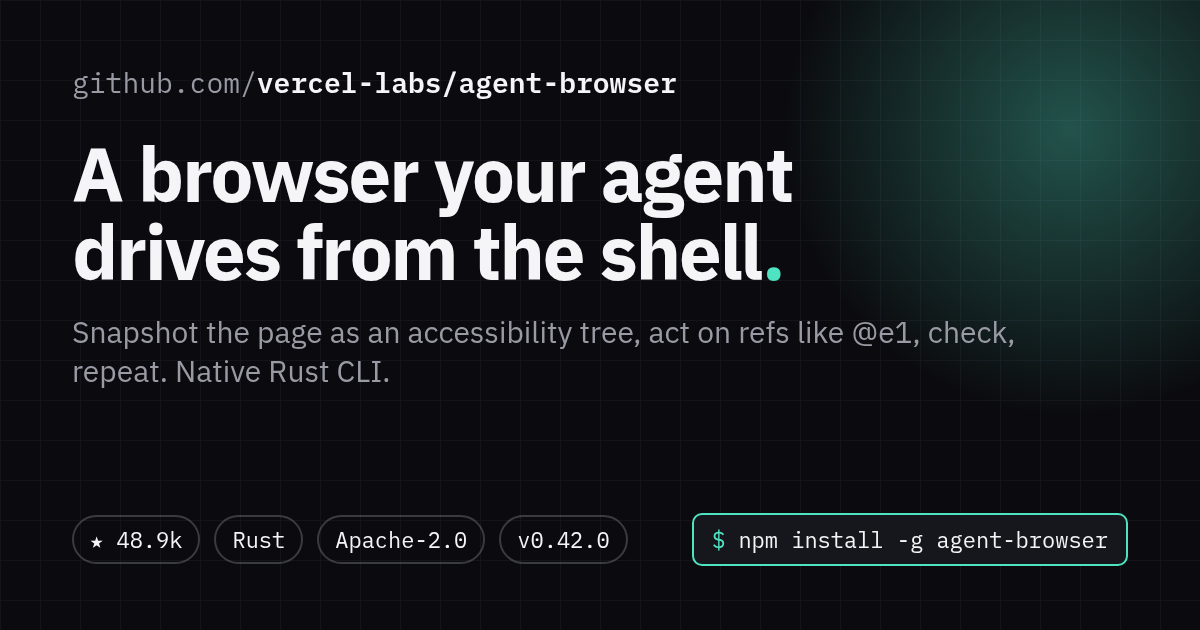
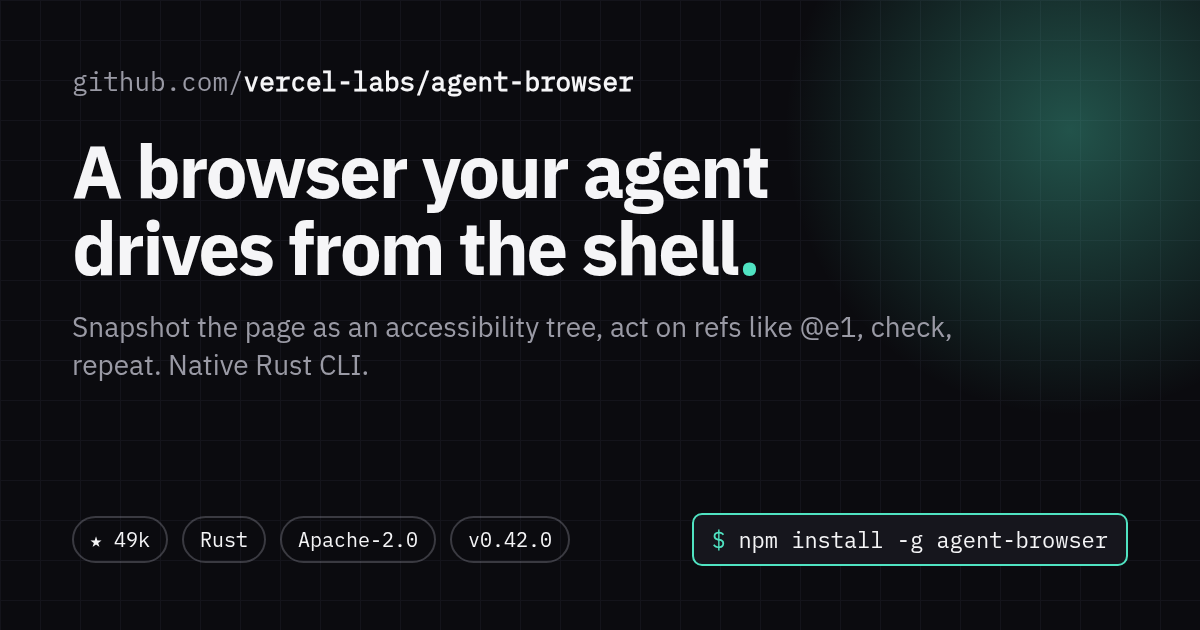
Refresh examples, add README demos, and drop stale wording.
Example facts are re-fetched as of Nov 10, 2026, the agent-browser
thread no longer says "last night," and the README now shows a demo
image or GIF for each skill, including the new styles.

diff --git a/skills/og-image/examples/agent-browser/og.html b/skills/og-image/examples/agent-browser/og.html
@@ -1,23 +1,27 @@
 <!doctype html><html><head><meta charset="utf-8"><style>
+@font-face{font-family:'IBM Plex Sans';src:url('../../fonts/IBMPlexSans-Regular.woff2') format('woff2');font-weight:400;font-style:normal;font-display:block}
+@font-face{font-family:'IBM Plex Sans';src:url('../../fonts/IBMPlexSans-SemiBold.woff2') format('woff2');font-weight:600;font-style:normal;font-display:block}
+@font-face{font-family:'IBM Plex Sans';src:url('../../fonts/IBMPlexSans-Bold.woff2') format('woff2');font-weight:700;font-style:normal;font-display:block}
+@font-face{font-family:'IBM Plex Mono';src:url('../../fonts/IBMPlexMono-Regular.woff2') format('woff2');font-weight:400;font-style:normal;font-display:block}
 *{margin:0;padding:0;box-sizing:border-box}
 html,body{width:1200px;height:630px;overflow:hidden}
-body{background:#0b0b0f;color:#f5f5f7;font-family:'IBM Plex Sans','Inter','Helvetica Neue',Arial,sans-serif;position:relative}
+body{background:#0b0b0f;color:#f5f5f7;font-family:'IBM Plex Sans','Helvetica Neue',Arial,sans-serif;position:relative;-webkit-font-smoothing:antialiased}
 .grid{position:absolute;inset:0;background-image:linear-gradient(#16161d 1px,transparent 1px),linear-gradient(90deg,#16161d 1px,transparent 1px);background-size:40px 40px;opacity:.9}
 .glow{position:absolute;right:-180px;top:-180px;width:620px;height:620px;border-radius:50%;background:radial-gradient(circle,#50e3c255,transparent 65%)}
 .wrap{position:absolute;inset:0;padding:64px 72px;display:flex;flex-direction:column}
-.repo{font-family:'IBM Plex Mono','DejaVu Sans Mono',monospace;font-size:28px;color:#9a9aa5}
+.repo{font-family:'IBM Plex Mono','DejaVu Sans Mono',monospace;font-size:26px;color:#9a9aa5}
 .repo b{color:#f5f5f7;font-weight:600}
-h1{font-size:76px;line-height:1.02;font-weight:700;letter-spacing:-2px;margin-top:34px;max-width:1000px;text-wrap:balance}
+h1{font-size:74px;line-height:1.04;font-weight:700;letter-spacing:-0.03em;margin-top:34px;max-width:1000px;text-wrap:balance}
 h1 span{color:#50e3c2}
-p{font-size:30px;line-height:1.3;color:#9a9aa5;margin-top:22px;max-width:960px}
+p{font-size:28px;line-height:1.35;color:#9a9aa5;margin-top:22px;max-width:960px}
 .bottom{margin-top:auto;display:flex;align-items:center;gap:14px}
-.chip{font-family:'IBM Plex Mono',monospace;font-size:22px;padding:8px 16px;border:2px solid #9a9aa555;border-radius:999px;color:#f5f5f7}
-.cmd{margin-left:auto;font-family:'IBM Plex Mono',monospace;font-size:22px;background:#16161d;border:2px solid #50e3c2;border-radius:10px;padding:10px 18px;color:#f5f5f7;max-width:436px;white-space:nowrap;overflow:hidden;text-overflow:ellipsis}
+.chip{font-family:'IBM Plex Mono',monospace;font-size:20px;padding:8px 16px;border:2px solid #9a9aa555;border-radius:999px;color:#f5f5f7}
+.cmd{margin-left:auto;font-family:'IBM Plex Mono',monospace;font-size:22px;background:#16161d;border:2px solid #50e3c2;border-radius:10px;padding:10px 18px;color:#f5f5f7;max-width:462px;white-space:nowrap;overflow:hidden;text-overflow:ellipsis}
 .cmd i{color:#50e3c2;font-style:normal}
 </style></head><body><div class="grid"></div><div class="glow"></div><div class="wrap">
 <div class="repo">github.com/<b>vercel-labs/agent-browser</b></div>
 <h1>A browser your agent drives from the shell<span>.</span></h1>
 <p>Snapshot the page as an accessibility tree, act on refs like @e1, check, repeat. Native Rust CLI.</p>
-<div class="bottom"><div class="chip">★ 48.9k</div><div class="chip">Rust</div><div class="chip">Apache-2.0</div><div class="chip">v0.42.0</div>
+<div class="bottom"><div class="chip">★ 49k</div><div class="chip">Rust</div><div class="chip">Apache-2.0</div><div class="chip">v0.42.0</div>
 <div class="cmd"><i>$</i> npm install -g agent-browser</div></div>
 </div></body></html>

diff --git a/skills/og-image/examples/anthropics-skills/og.html b/skills/og-image/examples/anthropics-skills/og.html
@@ -1,23 +1,27 @@
 <!doctype html><html><head><meta charset="utf-8"><style>
+@font-face{font-family:'IBM Plex Sans';src:url('../../fonts/IBMPlexSans-Regular.woff2') format('woff2');font-weight:400;font-style:normal;font-display:block}
+@font-face{font-family:'IBM Plex Sans';src:url('../../fonts/IBMPlexSans-SemiBold.woff2') format('woff2');font-weight:600;font-style:normal;font-display:block}
+@font-face{font-family:'IBM Plex Sans';src:url('../../fonts/IBMPlexSans-Bold.woff2') format('woff2');font-weight:700;font-style:normal;font-display:block}
+@font-face{font-family:'IBM Plex Mono';src:url('../../fonts/IBMPlexMono-Regular.woff2') format('woff2');font-weight:400;font-style:normal;font-display:block}
 *{margin:0;padding:0;box-sizing:border-box}
 html,body{width:1200px;height:630px;overflow:hidden}
-body{background:#0b0b0f;color:#f5f5f7;font-family:'IBM Plex Sans','Inter','Helvetica Neue',Arial,sans-serif;position:relative}
+body{background:#0b0b0f;color:#f5f5f7;font-family:'IBM Plex Sans','Helvetica Neue',Arial,sans-serif;position:relative;-webkit-font-smoothing:antialiased}
 .grid{position:absolute;inset:0;background-image:linear-gradient(#16161d 1px,transparent 1px),linear-gradient(90deg,#16161d 1px,transparent 1px);background-size:40px 40px;opacity:.9}
 .glow{position:absolute;right:-180px;top:-180px;width:620px;height:620px;border-radius:50%;background:radial-gradient(circle,#d9775755,transparent 65%)}
 .wrap{position:absolute;inset:0;padding:64px 72px;display:flex;flex-direction:column}
-.repo{font-family:'IBM Plex Mono','DejaVu Sans Mono',monospace;font-size:28px;color:#9a9aa5}
+.repo{font-family:'IBM Plex Mono','DejaVu Sans Mono',monospace;font-size:26px;color:#9a9aa5}
 .repo b{color:#f5f5f7;font-weight:600}
-h1{font-size:76px;line-height:1.02;font-weight:700;letter-spacing:-2px;margin-top:34px;max-width:1000px;text-wrap:balance}
+h1{font-size:74px;line-height:1.04;font-weight:700;letter-spacing:-0.03em;margin-top:34px;max-width:1000px;text-wrap:balance}
 h1 span{color:#d97757}
-p{font-size:30px;line-height:1.3;color:#9a9aa5;margin-top:22px;max-width:960px}
+p{font-size:28px;line-height:1.35;color:#9a9aa5;margin-top:22px;max-width:960px}
 .bottom{margin-top:auto;display:flex;align-items:center;gap:14px}
-.chip{font-family:'IBM Plex Mono',monospace;font-size:22px;padding:8px 16px;border:2px solid #9a9aa555;border-radius:999px;color:#f5f5f7}
-.cmd{margin-left:auto;font-family:'IBM Plex Mono',monospace;font-size:22px;background:#16161d;border:2px solid #d97757;border-radius:10px;padding:10px 18px;color:#f5f5f7;max-width:746px;white-space:nowrap;overflow:hidden;text-overflow:ellipsis}
+.chip{font-family:'IBM Plex Mono',monospace;font-size:20px;padding:8px 16px;border:2px solid #9a9aa555;border-radius:999px;color:#f5f5f7}
+.cmd{margin-left:auto;font-family:'IBM Plex Mono',monospace;font-size:22px;background:#16161d;border:2px solid #d97757;border-radius:10px;padding:10px 18px;color:#f5f5f7;max-width:772px;white-space:nowrap;overflow:hidden;text-overflow:ellipsis}
 .cmd i{color:#d97757;font-style:normal}
 </style></head><body><div class="grid"></div><div class="glow"></div><div class="wrap">
 <div class="repo">github.com/<b>anthropics/skills</b></div>
 <h1>Folders that teach Claude repeatable tasks<span>.</span></h1>
 <p>Instructions, scripts and resources Claude loads on demand: docx, pdf, pptx, MCP builders and more.</p>
-<div class="bottom"><div class="chip">★ 191.9k</div><div class="chip">Python</div>
+<div class="bottom"><div class="chip">★ 192k</div><div class="chip">Python</div>
 <div class="cmd"><i>></i> /plugin marketplace add anthropics/skills</div></div>
 </div></body></html>

diff --git a/skills/x-launch-thread/examples/anthropics-skills/thread.html b/skills/x-launch-thread/examples/anthropics-skills/thread.html
@@ -1,0 +1,37 @@
+<!doctype html><html><head><meta charset="utf-8"><style>
+@font-face{font-family:'IBM Plex Sans';src:url('../../fonts/IBMPlexSans-Regular.woff2') format('woff2');font-weight:400;font-style:normal;font-display:block}
+@font-face{font-family:'IBM Plex Sans';src:url('../../fonts/IBMPlexSans-SemiBold.woff2') format('woff2');font-weight:600;font-style:normal;font-display:block}
+@font-face{font-family:'IBM Plex Sans';src:url('../../fonts/IBMPlexSans-Bold.woff2') format('woff2');font-weight:700;font-style:normal;font-display:block}
+@font-face{font-family:'IBM Plex Mono';src:url('../../fonts/IBMPlexMono-Regular.woff2') format('woff2');font-weight:400;font-style:normal;font-display:block}
+*{margin:0;padding:0;box-sizing:border-box}
+html,body{width:1200px;background:#0b0b0f;color:#f5f5f7;font-family:'IBM Plex Sans','Helvetica Neue',Arial,sans-serif;-webkit-font-smoothing:antialiased}
+body{padding:48px 56px 56px}
+.kicker{font-family:'IBM Plex Mono',monospace;font-size:16px;letter-spacing:.12em;text-transform:uppercase;color:#9a9aa5}
+h1{font-size:36px;font-weight:700;letter-spacing:-0.03em;margin:10px 0 28px}
+.card{background:#16161d;border:1px solid #2a2a33;border-radius:16px;padding:22px 26px;margin:0 0 14px}
+.card.reply{border-color:#3dff8a55}
+.meta{display:flex;justify-content:space-between;align-items:center;margin-bottom:10px;font-family:'IBM Plex Mono',monospace;font-size:16px;color:#9a9aa5}
+.num{color:#f5f5f7}
+.count.ok{color:#3dff8a}
+.count.over{color:#ff4d4d}
+.body{font-size:24px;line-height:1.45;white-space:normal;word-wrap:break-word}
+</style></head><body>
+<div class="kicker">draft · not posted</div>
+<h1>anthropics/skills</h1>
+<div class="card ">
+  <div class="meta"><span class="num">1/5</span><span class="count ok">231/280</span></div>
+  <div class="body">anthropics/skills is at 192k stars as of Nov 10, and the core idea is almost boring:<br><br>a skill is a folder with a SKILL.md. Name and description up top, instructions below. The agent loads it only when a task matches.</div>
+</div><div class="card ">
+  <div class="meta"><span class="num">2/5</span><span class="count ok">256/280</span></div>
+  <div class="body">What&#x27;s in the repo:<br><br>• docx, pdf, pptx, xlsx: the skills behind Claude&#x27;s document features<br>• creative: algorithmic-art, canvas-design, slack-gif-creator<br>• dev: mcp-builder, webapp-testing, frontend-design<br>• skill-creator, which helps you write new ones</div>
+</div><div class="card ">
+  <div class="meta"><span class="num">3/5</span><span class="count ok">196/280</span></div>
+  <div class="body">Try it in Claude Code:<br><br>/plugin marketplace add anthropics/skills<br>/plugin install document-skills@anthropic-agent-skills<br><br>Then just ask: &quot;use the PDF skill to pull the form fields from this file.&quot;</div>
+</div><div class="card ">
+  <div class="meta"><span class="num">4/5</span><span class="count ok">165/280</span></div>
+  <div class="body">The part I like: the format is published as an open standard (agentskills.io), so a skill is a plain folder you can read, edit and version, not a black box.</div>
+</div><div class="card reply">
+  <div class="meta"><span class="num">REPLY</span><span class="count ok">29/280</span></div>
+  <div class="body">Repo: https://github.com/anthropics/skills</div>
+</div>
+</body></html>

diff --git a/skills/x-launch-thread/examples/agent-browser/thread.html b/skills/x-launch-thread/examples/agent-browser/thread.html
@@ -1,0 +1,37 @@
+<!doctype html><html><head><meta charset="utf-8"><style>
+@font-face{font-family:'IBM Plex Sans';src:url('../../fonts/IBMPlexSans-Regular.woff2') format('woff2');font-weight:400;font-style:normal;font-display:block}
+@font-face{font-family:'IBM Plex Sans';src:url('../../fonts/IBMPlexSans-SemiBold.woff2') format('woff2');font-weight:600;font-style:normal;font-display:block}
+@font-face{font-family:'IBM Plex Sans';src:url('../../fonts/IBMPlexSans-Bold.woff2') format('woff2');font-weight:700;font-style:normal;font-display:block}
+@font-face{font-family:'IBM Plex Mono';src:url('../../fonts/IBMPlexMono-Regular.woff2') format('woff2');font-weight:400;font-style:normal;font-display:block}
+*{margin:0;padding:0;box-sizing:border-box}
+html,body{width:1200px;background:#0b0b0f;color:#f5f5f7;font-family:'IBM Plex Sans','Helvetica Neue',Arial,sans-serif;-webkit-font-smoothing:antialiased}
+body{padding:48px 56px 56px}
+.kicker{font-family:'IBM Plex Mono',monospace;font-size:16px;letter-spacing:.12em;text-transform:uppercase;color:#9a9aa5}
+h1{font-size:36px;font-weight:700;letter-spacing:-0.03em;margin:10px 0 28px}
+.card{background:#16161d;border:1px solid #2a2a33;border-radius:16px;padding:22px 26px;margin:0 0 14px}
+.card.reply{border-color:#3dff8a55}
+.meta{display:flex;justify-content:space-between;align-items:center;margin-bottom:10px;font-family:'IBM Plex Mono',monospace;font-size:16px;color:#9a9aa5}
+.num{color:#f5f5f7}
+.count.ok{color:#3dff8a}
+.count.over{color:#ff4d4d}
+.body{font-size:24px;line-height:1.45;white-space:normal;word-wrap:break-word}
+</style></head><body>
+<div class="kicker">draft · not posted</div>
+<h1>vercel-labs/agent-browser</h1>
+<div class="card ">
+  <div class="meta"><span class="num">1/5</span><span class="count ok">140/280</span></div>
+  <div class="body">vercel-labs/agent-browser shipped v0.42.0 on Nov 10 (49k stars).<br><br>It gives an AI agent a real browser it drives one shell command at a time.</div>
+</div><div class="card ">
+  <div class="meta"><span class="num">2/5</span><span class="count ok">255/280</span></div>
+  <div class="body">The loop:<br><br>agent-browser open example.com<br>agent-browser snapshot -i   → elements as refs like @e1<br>agent-browser click @e1<br>agent-browser get url       → check it worked<br><br>The browser stays open between commands, so each step is one short call.</div>
+</div><div class="card ">
+  <div class="meta"><span class="num">3/5</span><span class="count ok">213/280</span></div>
+  <div class="body">The detail I like: a click fails instead of reporting success when the target is hidden, disabled, off-screen or covered by something like a consent banner.<br><br>That one rule removes a whole class of silent failures.</div>
+</div><div class="card ">
+  <div class="meta"><span class="num">4/5</span><span class="count ok">192/280</span></div>
+  <div class="body">Also in the box: native Rust binaries for macOS, Linux and Windows, version-matched skills (agent-browser skills get core), and an MCP server (agent-browser mcp).<br><br>npm install -g agent-browser</div>
+</div><div class="card reply">
+  <div class="meta"><span class="num">REPLY</span><span class="count ok">59/280</span></div>
+  <div class="body">Repo: https://github.com/vercel-labs/agent-browser<br>Docs: https://agent-browser.dev</div>
+</div>
+</body></html>

diff --git a/skills/readme-hero/examples/agent-browser/hero-dark.html b/skills/readme-hero/examples/agent-browser/hero-dark.html
@@ -1,14 +1,18 @@
 <!doctype html><html><head><meta charset="utf-8"><style>
+@font-face{font-family:'IBM Plex Sans';src:url('../../fonts/IBMPlexSans-Regular.woff2') format('woff2');font-weight:400;font-style:normal;font-display:block}
+@font-face{font-family:'IBM Plex Sans';src:url('../../fonts/IBMPlexSans-SemiBold.woff2') format('woff2');font-weight:600;font-style:normal;font-display:block}
+@font-face{font-family:'IBM Plex Sans';src:url('../../fonts/IBMPlexSans-Bold.woff2') format('woff2');font-weight:700;font-style:normal;font-display:block}
+@font-face{font-family:'IBM Plex Mono';src:url('../../fonts/IBMPlexMono-Regular.woff2') format('woff2');font-weight:400;font-style:normal;font-display:block}
 *{margin:0;padding:0;box-sizing:border-box}
 html,body{width:1280px;height:400px;overflow:hidden}
-body{background:#0b0b0f;color:#f5f5f7;font-family:'IBM Plex Sans','Inter','Helvetica Neue',Arial,sans-serif;position:relative}
+body{background:#0b0b0f;color:#f5f5f7;font-family:'IBM Plex Sans','Helvetica Neue',Arial,sans-serif;position:relative;-webkit-font-smoothing:antialiased}
 .bar{position:absolute;left:0;top:0;bottom:0;width:10px;background:#50e3c2}
 .dots{position:absolute;right:0;top:0;bottom:0;width:420px;background-image:radial-gradient(#1c1c24 2px,transparent 2px);background-size:22px 22px;-webkit-mask-image:linear-gradient(90deg,transparent,#000 60%)}
 .wrap{position:absolute;inset:0;padding:56px 80px;display:flex;flex-direction:column;justify-content:center}
-.repo{font-family:'IBM Plex Mono',monospace;font-size:24px;color:#a0a0ab}
+.repo{font-family:'IBM Plex Mono',monospace;font-size:22px;color:#a0a0ab}
 .repo b{color:#50e3c2;font-weight:600}
-h1{font-size:64px;line-height:1.05;font-weight:700;letter-spacing:-1.5px;margin-top:18px;max-width:1000px;text-wrap:balance}
-p{font-size:26px;line-height:1.35;color:#a0a0ab;margin-top:18px;max-width:940px}
+h1{font-size:64px;line-height:1.05;font-weight:700;letter-spacing:-0.03em;margin-top:16px;max-width:1000px;text-wrap:balance}
+p{font-size:26px;line-height:1.35;color:#a0a0ab;margin-top:16px;max-width:940px}
 </style></head><body><div class="bar"></div><div class="dots"></div><div class="wrap">
 <div class="repo">vercel-labs/<b>agent-browser</b></div>
 <h1>A browser your agent drives from the shell</h1><p>Snapshot the page as an accessibility tree, act on a ref like @e1, read again to check. One short command per step.</p></div></body></html>

diff --git a/skills/readme-hero/examples/agent-browser/hero-light.html b/skills/readme-hero/examples/agent-browser/hero-light.html
@@ -1,14 +1,18 @@
 <!doctype html><html><head><meta charset="utf-8"><style>
+@font-face{font-family:'IBM Plex Sans';src:url('../../fonts/IBMPlexSans-Regular.woff2') format('woff2');font-weight:400;font-style:normal;font-display:block}
+@font-face{font-family:'IBM Plex Sans';src:url('../../fonts/IBMPlexSans-SemiBold.woff2') format('woff2');font-weight:600;font-style:normal;font-display:block}
+@font-face{font-family:'IBM Plex Sans';src:url('../../fonts/IBMPlexSans-Bold.woff2') format('woff2');font-weight:700;font-style:normal;font-display:block}
+@font-face{font-family:'IBM Plex Mono';src:url('../../fonts/IBMPlexMono-Regular.woff2') format('woff2');font-weight:400;font-style:normal;font-display:block}
 *{margin:0;padding:0;box-sizing:border-box}
 html,body{width:1280px;height:400px;overflow:hidden}
-body{background:#ffffff;color:#0b0b0f;font-family:'IBM Plex Sans','Inter','Helvetica Neue',Arial,sans-serif;position:relative}
+body{background:#ffffff;color:#0b0b0f;font-family:'IBM Plex Sans','Helvetica Neue',Arial,sans-serif;position:relative;-webkit-font-smoothing:antialiased}
 .bar{position:absolute;left:0;top:0;bottom:0;width:10px;background:#50e3c2}
 .dots{position:absolute;right:0;top:0;bottom:0;width:420px;background-image:radial-gradient(#ececf1 2px,transparent 2px);background-size:22px 22px;-webkit-mask-image:linear-gradient(90deg,transparent,#000 60%)}
 .wrap{position:absolute;inset:0;padding:56px 80px;display:flex;flex-direction:column;justify-content:center}
-.repo{font-family:'IBM Plex Mono',monospace;font-size:24px;color:#55555f}
+.repo{font-family:'IBM Plex Mono',monospace;font-size:22px;color:#55555f}
 .repo b{color:#50e3c2;font-weight:600}
-h1{font-size:64px;line-height:1.05;font-weight:700;letter-spacing:-1.5px;margin-top:18px;max-width:1000px;text-wrap:balance}
-p{font-size:26px;line-height:1.35;color:#55555f;margin-top:18px;max-width:940px}
+h1{font-size:64px;line-height:1.05;font-weight:700;letter-spacing:-0.03em;margin-top:16px;max-width:1000px;text-wrap:balance}
+p{font-size:26px;line-height:1.35;color:#55555f;margin-top:16px;max-width:940px}
 </style></head><body><div class="bar"></div><div class="dots"></div><div class="wrap">
 <div class="repo">vercel-labs/<b>agent-browser</b></div>
 <h1>A browser your agent drives from the shell</h1><p>Snapshot the page as an accessibility tree, act on a ref like @e1, read again to check. One short command per step.</p></div></body></html>

diff --git a/skills/readme-hero/examples/anthropics-skills/hero-dark.html b/skills/readme-hero/examples/anthropics-skills/hero-dark.html
@@ -1,14 +1,18 @@
 <!doctype html><html><head><meta charset="utf-8"><style>
+@font-face{font-family:'IBM Plex Sans';src:url('../../fonts/IBMPlexSans-Regular.woff2') format('woff2');font-weight:400;font-style:normal;font-display:block}
+@font-face{font-family:'IBM Plex Sans';src:url('../../fonts/IBMPlexSans-SemiBold.woff2') format('woff2');font-weight:600;font-style:normal;font-display:block}
+@font-face{font-family:'IBM Plex Sans';src:url('../../fonts/IBMPlexSans-Bold.woff2') format('woff2');font-weight:700;font-style:normal;font-display:block}
+@font-face{font-family:'IBM Plex Mono';src:url('../../fonts/IBMPlexMono-Regular.woff2') format('woff2');font-weight:400;font-style:normal;font-display:block}
 *{margin:0;padding:0;box-sizing:border-box}
 html,body{width:1280px;height:400px;overflow:hidden}
-body{background:#0b0b0f;color:#f5f5f7;font-family:'IBM Plex Sans','Inter','Helvetica Neue',Arial,sans-serif;position:relative}
+body{background:#0b0b0f;color:#f5f5f7;font-family:'IBM Plex Sans','Helvetica Neue',Arial,sans-serif;position:relative;-webkit-font-smoothing:antialiased}
 .bar{position:absolute;left:0;top:0;bottom:0;width:10px;background:#d97757}
 .dots{position:absolute;right:0;top:0;bottom:0;width:420px;background-image:radial-gradient(#1c1c24 2px,transparent 2px);background-size:22px 22px;-webkit-mask-image:linear-gradient(90deg,transparent,#000 60%)}
 .wrap{position:absolute;inset:0;padding:56px 80px;display:flex;flex-direction:column;justify-content:center}
-.repo{font-family:'IBM Plex Mono',monospace;font-size:24px;color:#a0a0ab}
+.repo{font-family:'IBM Plex Mono',monospace;font-size:22px;color:#a0a0ab}
 .repo b{color:#d97757;font-weight:600}
-h1{font-size:64px;line-height:1.05;font-weight:700;letter-spacing:-1.5px;margin-top:18px;max-width:1000px;text-wrap:balance}
-p{font-size:26px;line-height:1.35;color:#a0a0ab;margin-top:18px;max-width:940px}
+h1{font-size:64px;line-height:1.05;font-weight:700;letter-spacing:-0.03em;margin-top:16px;max-width:1000px;text-wrap:balance}
+p{font-size:26px;line-height:1.35;color:#a0a0ab;margin-top:16px;max-width:940px}
 </style></head><body><div class="bar"></div><div class="dots"></div><div class="wrap">
 <div class="repo">anthropics/<b>skills</b></div>
 <h1>Teach Claude a task once, as a folder</h1><p>Skills are folders of instructions, scripts and resources that Claude loads dynamically for specialized tasks.</p></div></body></html>

diff --git a/skills/readme-hero/examples/anthropics-skills/hero-light.html b/skills/readme-hero/examples/anthropics-skills/hero-light.html
@@ -1,14 +1,18 @@
 <!doctype html><html><head><meta charset="utf-8"><style>
+@font-face{font-family:'IBM Plex Sans';src:url('../../fonts/IBMPlexSans-Regular.woff2') format('woff2');font-weight:400;font-style:normal;font-display:block}
+@font-face{font-family:'IBM Plex Sans';src:url('../../fonts/IBMPlexSans-SemiBold.woff2') format('woff2');font-weight:600;font-style:normal;font-display:block}
+@font-face{font-family:'IBM Plex Sans';src:url('../../fonts/IBMPlexSans-Bold.woff2') format('woff2');font-weight:700;font-style:normal;font-display:block}
+@font-face{font-family:'IBM Plex Mono';src:url('../../fonts/IBMPlexMono-Regular.woff2') format('woff2');font-weight:400;font-style:normal;font-display:block}
 *{margin:0;padding:0;box-sizing:border-box}
 html,body{width:1280px;height:400px;overflow:hidden}
-body{background:#ffffff;color:#0b0b0f;font-family:'IBM Plex Sans','Inter','Helvetica Neue',Arial,sans-serif;position:relative}
+body{background:#ffffff;color:#0b0b0f;font-family:'IBM Plex Sans','Helvetica Neue',Arial,sans-serif;position:relative;-webkit-font-smoothing:antialiased}
 .bar{position:absolute;left:0;top:0;bottom:0;width:10px;background:#d97757}
 .dots{position:absolute;right:0;top:0;bottom:0;width:420px;background-image:radial-gradient(#ececf1 2px,transparent 2px);background-size:22px 22px;-webkit-mask-image:linear-gradient(90deg,transparent,#000 60%)}
 .wrap{position:absolute;inset:0;padding:56px 80px;display:flex;flex-direction:column;justify-content:center}
-.repo{font-family:'IBM Plex Mono',monospace;font-size:24px;color:#55555f}
+.repo{font-family:'IBM Plex Mono',monospace;font-size:22px;color:#55555f}
 .repo b{color:#d97757;font-weight:600}
-h1{font-size:64px;line-height:1.05;font-weight:700;letter-spacing:-1.5px;margin-top:18px;max-width:1000px;text-wrap:balance}
-p{font-size:26px;line-height:1.35;color:#55555f;margin-top:18px;max-width:940px}
+h1{font-size:64px;line-height:1.05;font-weight:700;letter-spacing:-0.03em;margin-top:16px;max-width:1000px;text-wrap:balance}
+p{font-size:26px;line-height:1.35;color:#55555f;margin-top:16px;max-width:940px}
 </style></head><body><div class="bar"></div><div class="dots"></div><div class="wrap">
 <div class="repo">anthropics/<b>skills</b></div>
 <h1>Teach Claude a task once, as a folder</h1><p>Skills are folders of instructions, scripts and resources that Claude loads dynamically for specialized tasks.</p></div></body></html>

diff --git a/README.md b/README.md
@@ -9,13 +9,29 @@
 
 ## Skills
 
-| Skill | What it makes | Example |
-|---|---|---|
-| [`og-image`](skills/og-image/SKILL.md) | A 1200x630 social / link-preview card (`og.png`) | [agent-browser](skills/og-image/examples/agent-browser/og.png) · [anthropics/skills](skills/og-image/examples/anthropics-skills/og.png) |
-| [`readme-hero`](skills/readme-hero/SKILL.md) | Dark + light README banners and a paste-ready header (`HERO.md`) | [agent-browser](skills/readme-hero/examples/agent-browser/HERO.md) · [anthropics/skills](skills/readme-hero/examples/anthropics-skills/HERO.md) |
-| [`x-launch-thread`](skills/x-launch-thread/SKILL.md) | A 3–5 post X thread plus a link reply, linted for length, spam patterns and invented numbers | [agent-browser](skills/x-launch-thread/examples/agent-browser/thread.md) · [anthropics/skills](skills/x-launch-thread/examples/anthropics-skills/thread.md) |
+| Skill | What it makes | Styles | Example |
+|---|---|---|---|
+| [`og-image`](skills/og-image/SKILL.md) | A 1200×630 social / link-preview card (`og.png`) | `grid`, `terminal`, `poster` | [agent-browser](skills/og-image/examples/agent-browser/og.png) · [anthropics/skills](skills/og-image/examples/anthropics-skills/og.png) |
+| [`readme-hero`](skills/readme-hero/SKILL.md) | Dark + light README banners and a paste-ready header (`HERO.md`) | `bar`, `terminal`, `poster` | [agent-browser](skills/readme-hero/examples/agent-browser/HERO.md) · [anthropics/skills](skills/readme-hero/examples/anthropics-skills/HERO.md) |
+| [`x-launch-thread`](skills/x-launch-thread/SKILL.md) | A 3–5 post X thread plus a link reply, linted for X's weighted length, spam patterns and invented numbers | — | [agent-browser](skills/x-launch-thread/examples/agent-browser/thread.md) · [anthropics/skills](skills/x-launch-thread/examples/anthropics-skills/thread.md) |
 
 Every example was made by running the skill on a real public repo (`vercel-labs/agent-browser`, `anthropics/skills`). Facts were read from the GitHub API on Nov 10, 2026; star counts go stale.
+
+## Demos
+
+**og-image** — three styles (`grid`, `terminal`, `poster`) from the same `vercel-labs/agent-browser` facts:
+
+![og-image styles: grid, terminal, poster](assets/demos/og-image.gif)
+
+Still of all three: [og-image.png](assets/demos/og-image.png).
+
+**readme-hero** — three styles (`bar`, `terminal`, `poster`), dark theme:
+
+![readme-hero styles: bar, terminal, poster](assets/demos/readme-hero.png)
+
+**x-launch-thread** — a draft-only preview of the linted thread (this skill never posts):
+
+![x-launch-thread preview for vercel-labs/agent-browser](assets/demos/x-launch-thread.png)
 
 ## Install
 
@@ -42,12 +58,17 @@ Then ask your agent: *"Make an OG image for vercel-labs/agent-browser"* or *"Dra
 - Chrome or Chromium on `PATH` for PNG rendering (or set `CHROME=/path/to/chrome`). Without it, the skills still write HTML you can screenshot.
 - Network access to `api.github.com`. Set `GITHUB_TOKEN` to raise the rate limit (optional).
 
+IBM Plex Sans and IBM Plex Mono are bundled in each visual skill's `fonts/` folder so cards look the same on every machine.
+
 ## Principles
 
-- **Facts, not vibes.** Numbers come from the repo, with the date they were read. `x-launch-thread` flags any number it can't find in the facts.
+- **Facts, not vibes.** Numbers come from the repo, with the date they were read. `x-launch-thread` flags any number it can't find in the facts, and uses calendar dates (`Nov 10, 2026`) instead of "last night."
 - **Drafts only.** Nothing is posted, pushed or committed unless you ask.
 - **No spam patterns.** No engagement bait, hashtag stacks or tag-farming.
+- **Honest length.** The thread linter counts the way X does: each URL is 23 characters, each emoji cluster is 2, CJK is 2, limit 280.
 
 ## License
 
 MIT. Example outputs describe third-party projects (Apache-2.0 `vercel-labs/agent-browser`, `anthropics/skills`) and contain no code from them; names and trademarks belong to their owners.
+
+The bundled IBM Plex Sans and IBM Plex Mono fonts are Copyright © 2017 IBM Corp. with Reserved Font Name "Plex", licensed under the [SIL Open Font License 1.1](skills/og-image/fonts/LICENSE.txt).

diff --git a/skills/x-launch-thread/examples/anthropics-skills/thread.md b/skills/x-launch-thread/examples/anthropics-skills/thread.md
@@ -1,4 +1,4 @@
-anthropics/skills is at 191.9k stars, and the core idea is almost boring:
+anthropics/skills is at 192k stars as of Nov 10, and the core idea is almost boring:
 
 a skill is a folder with a SKILL.md. Name and description up top, instructions below. The agent loads it only when a task matches.
 ---

diff --git a/skills/x-launch-thread/examples/agent-browser/thread.md b/skills/x-launch-thread/examples/agent-browser/thread.md
@@ -1,4 +1,4 @@
-vercel-labs/agent-browser shipped v0.42.0 last night (48.9k stars).
+vercel-labs/agent-browser shipped v0.42.0 on Nov 10 (49k stars).
 
 It gives an AI agent a real browser it drives one shell command at a time.
 ---
